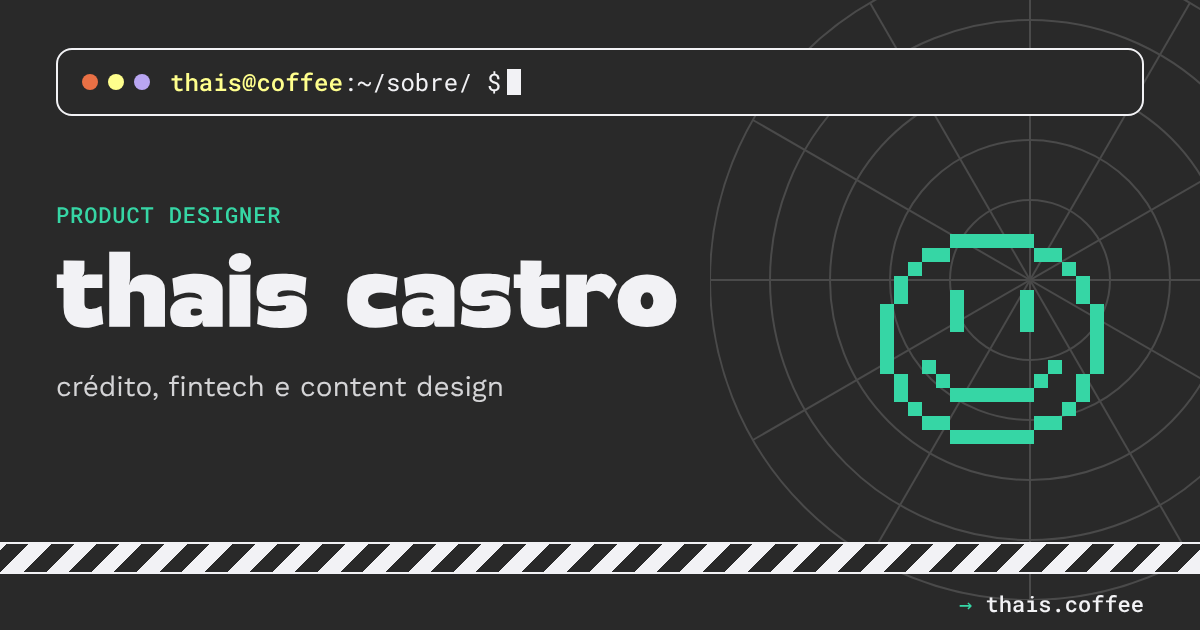
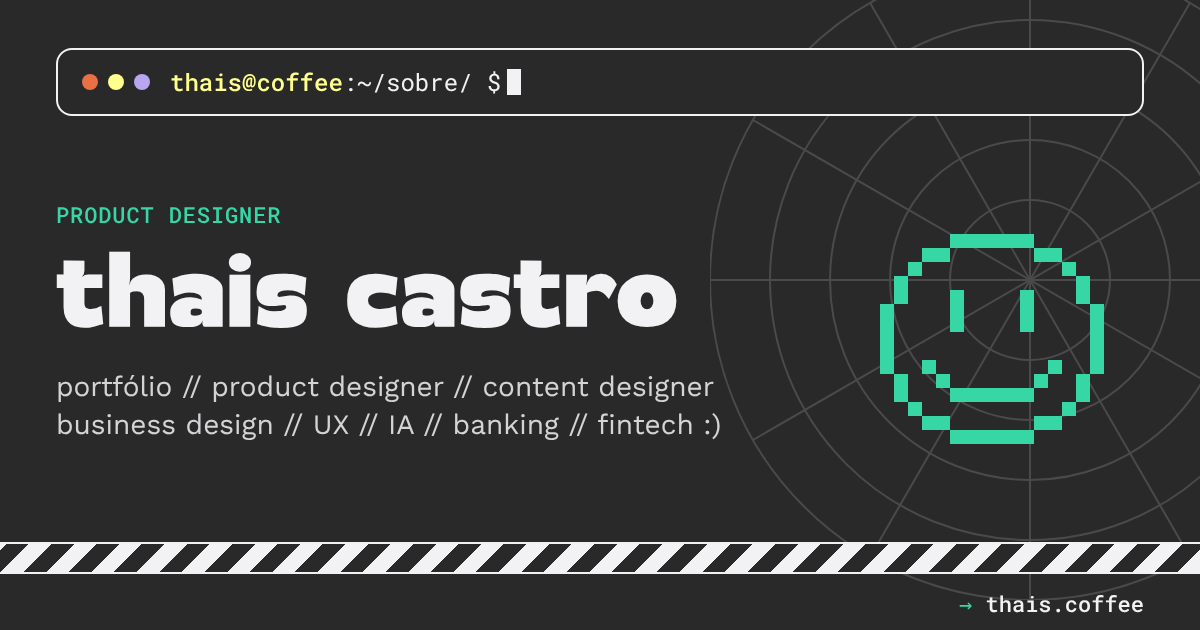
Imagem de compartilhamento da página inicial com a descrição nova em duas linhas
Claude-Session: https://claude.ai/code/session_01SGXVFggb1JqLhRkmS6SPRN

Changed region(s): [[0.0308, 0.6635, 0.6167, 0.6937], [0.0308, 0.573, 0.5858, 0.6333]]

diff --git a/_build/og.js b/_build/og.js
@@ -12,7 +12,7 @@ const OUT = path.join(ROOT, 'assets', 'og');
 const ICONS = path.join(ROOT, 'assets', 'icons');
 
 const OG_PAGES = [
-  ['sobre', 'sobre/', 'product designer', 'thais castro', 'crédito, fintech e content design'],
+  ['sobre', 'sobre/', 'product designer', 'thais castro', 'portfólio // product designer // content designer\nbusiness design // UX // IA // banking // fintech :)'],
   ['portfolio', 'portfolio/', 'cases', 'portfólio', 'do problema ao número que eles moveram'],
   ['transparencia', 'portfolio/transparencia', 'case', 'transparência como regra de produto', 'produtos de crédito · will bank'],
   ['este-portfolio', 'portfolio/este-portfolio', 'case', 'este portfólio, feito com ia', 'desenho, texto e código em parceria'],
@@ -47,7 +47,7 @@ body{width:1200px;height:630px;overflow:hidden;background:#292929;color:#f2f2f5;
 .txt{position:absolute;left:56px;top:200px;width:760px;display:flex;flex-direction:column;gap:20px}
 .k{font-size:22px;font-weight:500;color:#36d6a5;text-transform:uppercase;letter-spacing:.04em}
 h1{font-family:G,RM,monospace;font-weight:400;font-size:104px;line-height:.95;text-transform:lowercase}
-.s{font-family:WS,sans-serif;font-size:28px;line-height:1.35;color:#f2f2f5;opacity:.85}
+.s{font-family:WS,sans-serif;font-size:28px;line-height:1.35;white-space:pre-line;color:#f2f2f5;opacity:.85}
 .smile{position:absolute;right:96px;top:220px;width:224px;height:224px}
 .smile g{fill:#36d6a5}
 .tape{position:absolute;left:0;right:0;bottom:56px;height:32px;border-top:2px solid #f2f2f5;border-bottom:2px solid #f2f2f5;background:repeating-linear-gradient(-45deg,#f2f2f5 0 16px,#292929 16px 32px)}
